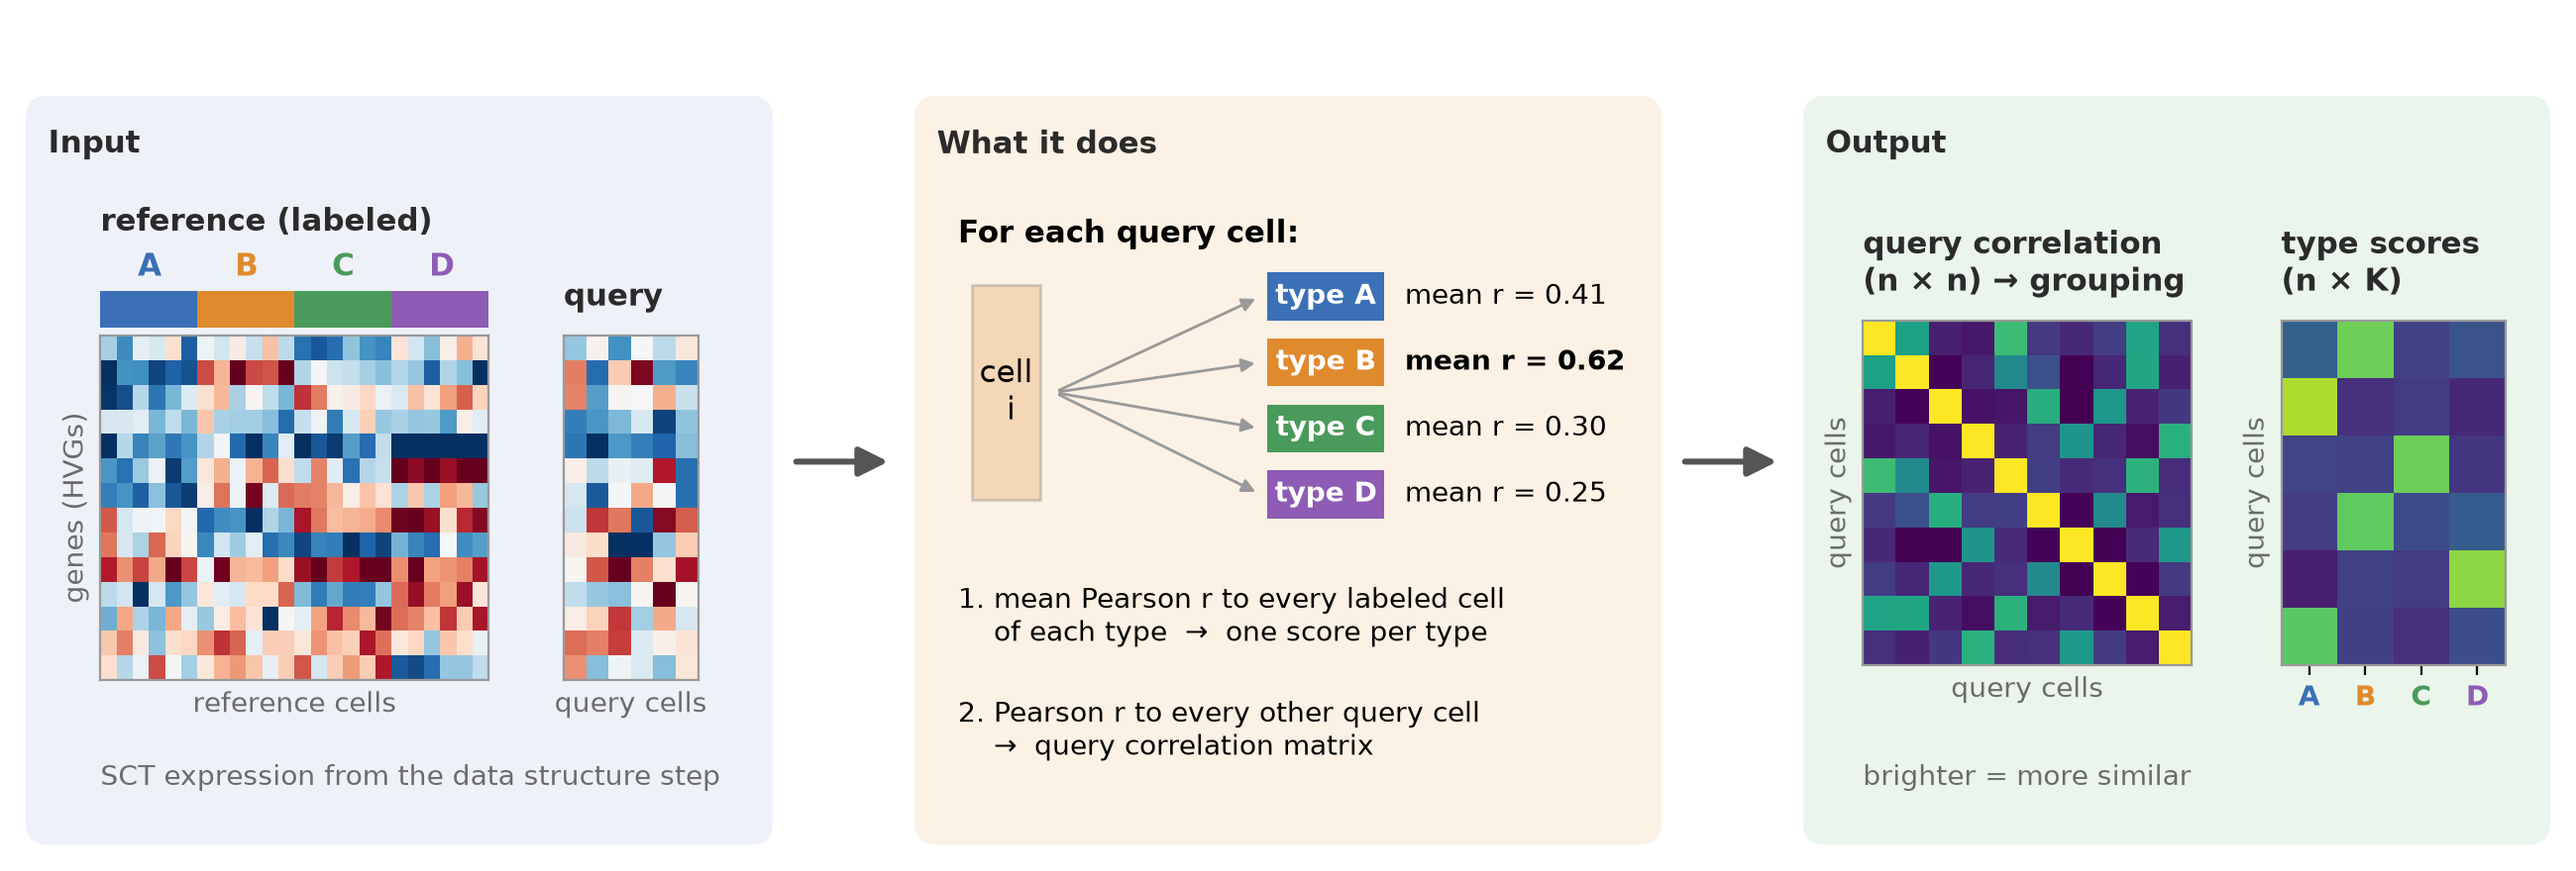
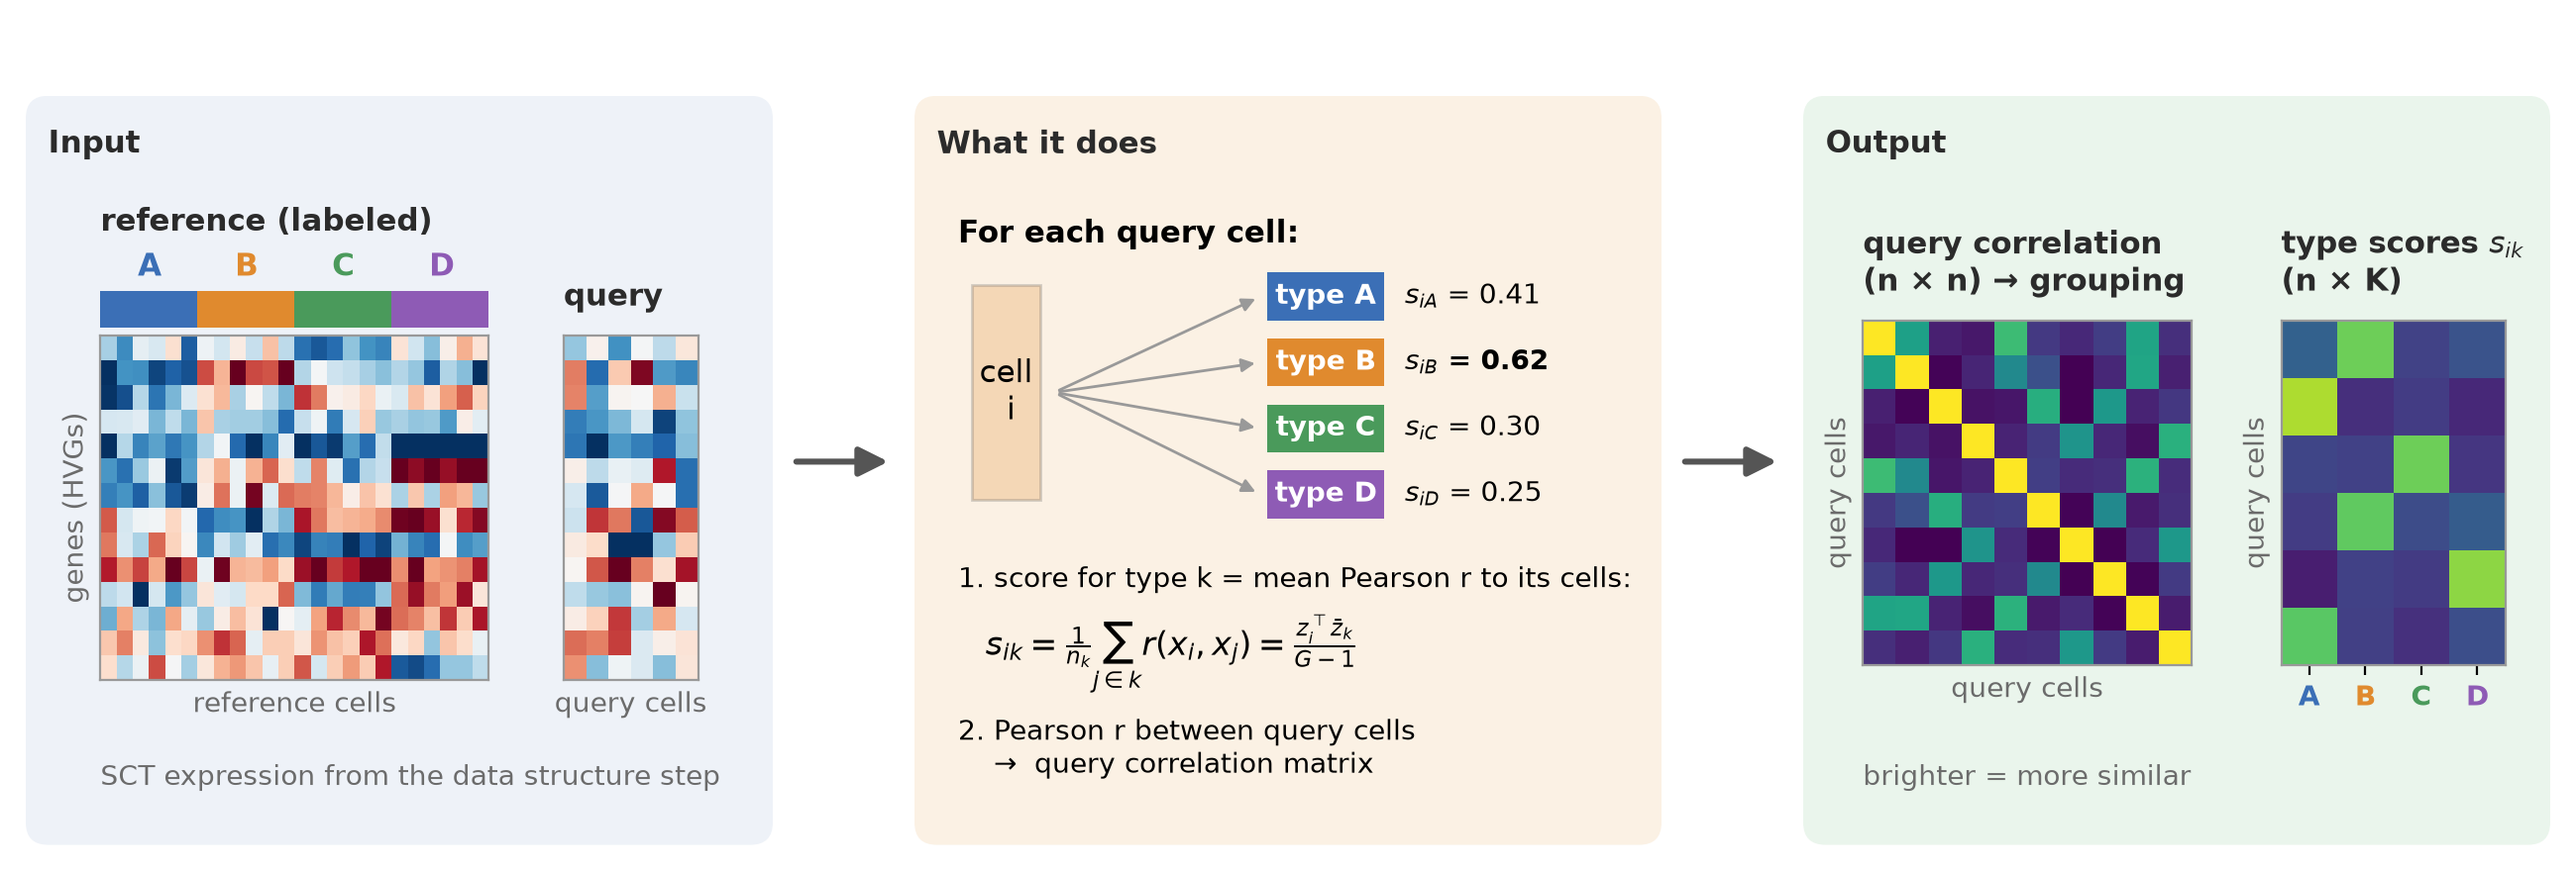
Add type-score equation to cell evidence schematic
Claude-Session: https://claude.ai/code/session_01Vdk8LkbFLTZ4G8o5tFFwNR

diff --git a/docs/schematics/make.py b/docs/schematics/make.py
@@ -124,9 +124,10 @@ for k in range(4):
     bx.add_patch(FancyArrowPatch((0.16, 0.68), (0.46, y), arrowstyle="-|>", mutation_scale=10, color="#999", lw=1))
     bx.add_patch(Rectangle((0.47, y - 0.04), 0.17, 0.08, fc=TC[k], ec="none"))
     bx.text(0.555, y, "type " + TN[k], ha="center", va="center", fontsize=FS - 1, color="white", fontweight="bold")
-    bx.text(0.67, y, f"mean r = {rs[k]:.2f}", va="center", fontsize=FS - 1, fontweight="bold" if k == 1 else "normal")
-bx.text(0.02, 0.36, "1. mean Pearson r to every labeled cell\n    of each type  →  one score per type", fontsize=FS - 1, va="top")
-bx.text(0.02, 0.17, "2. Pearson r to every other query cell\n    →  query correlation matrix", fontsize=FS - 1, va="top")
+    bx.text(0.67, y, "$s_{i%s}$" % TN[k] + f" = {rs[k]:.2f}", va="center", fontsize=FS - 1, fontweight="bold" if k == 1 else "normal")
+bx.text(0.02, 0.39, "1. score for type k = mean Pearson r to its cells:", fontsize=FS - 1, va="top")
+bx.text(0.06, 0.31, r"$s_{ik} = \frac{1}{n_k}\sum_{j \in k} r(x_i, x_j) = \frac{z_i^{\top}\bar{z}_k}{G-1}$", fontsize=FS + 1, va="top")
+bx.text(0.02, 0.14, "2. Pearson r between query cells\n    →  query correlation matrix", fontsize=FS - 1, va="top")
 # output
 C, _ = blocky(10, [4, 3, 3]); perm = rng.permutation(10)
 ax = sub(fig, P[2], (0.08, 0.24, 0.44, 0.46)); mat(ax, C[np.ix_(perm, perm)], cmap="viridis", vmin=0, vmax=1)
@@ -137,7 +138,7 @@ ax = sub(fig, P[2], (0.64, 0.24, 0.30, 0.46)); mat(ax, S, cmap="viridis", vmin=0
 ax.set_xticks(range(4)); ax.set_xticklabels(TN, fontsize=FS - 1, fontweight="bold")
 for t, c in zip(ax.get_xticklabels(), TC): t.set_color(c)
 ax.set_ylabel("query cells", fontsize=FS - 1, color=MUTED)
-txt(fig, P[2], 0.64, 0.74, "type scores\n(n × K)", fontsize=FS, fontweight="bold")
+txt(fig, P[2], 0.64, 0.74, "type scores $s_{ik}$\n(n × K)", fontsize=FS, fontweight="bold")
 txt(fig, P[2], 0.08, 0.08, "brighter = more similar", fontsize=FS - 1, color=MUTED)
 save(fig, "step2.png")
 
